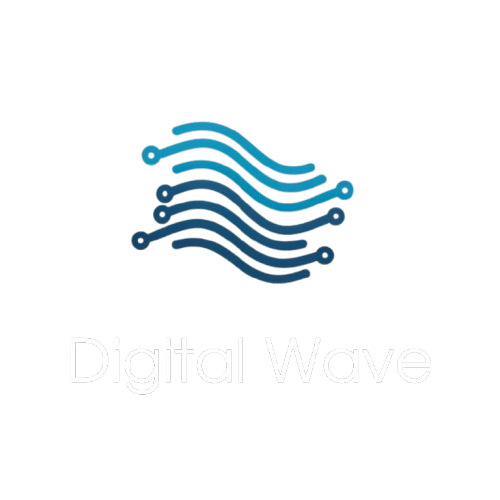
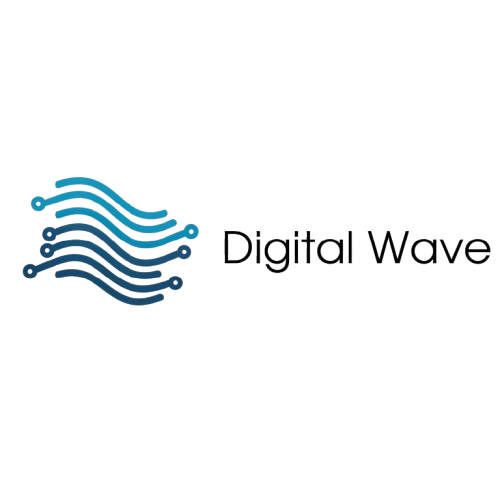
landing

Changed region(s): [[0.03, 0.24, 0.99, 0.63], [0.33, 0.69, 0.39, 0.72]]

diff --git a/index.html b/index.html
@@ -3,60 +3,122 @@
   <head>
     <meta charset="UTF-8" />
     <meta name="viewport" content="width=device-width, initial-scale=1.0" />
-    <title>Inicio - Dispensador de Agua</title>
+    <title>Bienvenida - Dispensador de Agua</title>
     <link rel="stylesheet" href="styles.css" />
   </head>
   <body>
-    <div id="navbar"></div>
-
-    <script>
-      fetch("navbar.html")
-        .then((response) => response.text())
-        .then((data) => {
-          document.getElementById("navbar").innerHTML = data;
-        });
-    </script>
-    <header class="header">
-      <img src="imgs/aqualife2.png" alt="logo-aquaLife" class="logo-aquaLife" />
-    </header>
-    <div class="container">
+    <div class="landing-container">
+      <!-- Logotipo de la aplicación -->
       <img
-        src="imgs/inicio.png"
-        alt="Imagen de fondo"
-        class="background-image" />
+        src="imgs/aquaLife.png"
+        alt="Logo de la Aplicación"
+        class="logo-app" />
+
+      <!-- Botón de inicio -->
+      <button class="inicio-button" onclick="location.href='inicio.html'">
+        Ir al Inicio
+      </button>
+
+      <!-- Texto 'by' y logotipo de los creadores -->
+      <div class="by-creators">
+        <p class="by-text">by</p>
+        <img
+          src="imgs/digitalWave.png"
+          alt="Creadores de la Aplicación"
+          class="creadores" />
+      </div>
     </div>
 
     <style>
+      /* Estilos para la página de bienvenida */
       body {
-        font-family: Arial, sans-serif;
         margin: 0;
         padding: 0;
-        background-color: #f5f5f5;
-      }
-
-      .header {
-        background-color: #023e8a;
-        padding: 20px 0;
-        text-align: center;
-        position: relative;
-        border-radius: 0px 0px 10px 10px;
-      }
-
-      .logo-aquaLife {
-        width: 150px;
-        max-width: 100%;
-      }
-
-      .container {
-        text-align: center;
+        font-family: Arial, sans-serif;
+        background-color: #e3f2fd; /* Fondo suave en azul claro */
+        display: flex;
+        align-items: center;
         justify-content: center;
-        align-content: center;
+        height: 100vh; /* Ajusta a la altura de la ventana */
       }
 
-      .background-image {
-        margin: 0;
-        width: 46vh;
-        height: 85vh;
+      .landing-container {
+        display: flex;
+        flex-direction: column;
+        align-items: center;
+        justify-content: center;
+        height: 80vh;
+        text-align: center;
+        background-color: white; /* Fondo blanco para el contenido */
+        padding: 20px;
+        border-radius: 15px;
+        box-shadow: 0 4px 10px rgba(0, 0, 0, 0.1); /* Sombra suave */
+      }
+
+      /* Estilos para el logotipo de la aplicación */
+      .logo-app {
+        width: 70%; /* Ajusta el tamaño del logo para hacerlo más grande */
+        max-width: 400px;
+        margin-bottom: 10px; /* Reduce el margen entre el logo y el botón */
+      }
+
+      /* Estilos para el botón de inicio */
+      .inicio-button {
+        padding: 10px 25px;
+        font-size: 18px;
+        color: #ffffff;
+        background-color: #023e8a;
+        border: none;
+        border-radius: 25px;
+        cursor: pointer;
+        box-shadow: 0 4px 8px rgba(0, 0, 0, 0.2);
+        transition: background-color 0.3s ease, transform 0.2s;
+        margin-top: 10px; /* Espacio pequeño para separarlo del logo */
+      }
+
+      .inicio-button:hover {
+        background-color: #0353a4;
+        transform: scale(1.05);
+      }
+
+      /* Contenedor para el texto 'by' y la imagen de creadores */
+      .by-creators {
+        display: flex;
+        flex-direction: column;
+        align-items: center;
+        margin-top: 20px;
+      }
+
+      /* Estilos para el texto 'by' */
+      .by-text {
+        font-size: 12px;
+        color: #666666;
+        margin-bottom: -5px; /* Espacio para acercar el texto a la imagen */
+      }
+
+      /* Estilos para la imagen de los creadores */
+      .creadores {
+        width: 70px;
+        max-width: 100%;
+        opacity: 0.7;
+      }
+
+      /* Ajustes de responsividad */
+      @media (max-width: 768px) {
+        .landing-container {
+          height: 90vh;
+          width: 90%;
+          padding: 15px;
+        }
+
+        .logo-app {
+          width: 80%; /* Ajusta el tamaño del logo en pantallas pequeñas */
+        }
+
+        .inicio-button {
+          font-size: 16px;
+          padding: 12px 24px;
+        }
       }
     </style>
   </body>

diff --git a/inicio.html b/inicio.html
@@ -1,0 +1,63 @@
+<!DOCTYPE html>
+<html lang="es">
+  <head>
+    <meta charset="UTF-8" />
+    <meta name="viewport" content="width=device-width, initial-scale=1.0" />
+    <title>Inicio - Dispensador de Agua</title>
+    <link rel="stylesheet" href="styles.css" />
+  </head>
+  <body>
+    <div id="navbar"></div>
+
+    <script>
+      fetch("navbar.html")
+        .then((response) => response.text())
+        .then((data) => {
+          document.getElementById("navbar").innerHTML = data;
+        });
+    </script>
+    <header class="header">
+      <img src="imgs/aqualife2.png" alt="logo-aquaLife" class="logo-aquaLife" />
+    </header>
+    <div class="container">
+      <img
+        src="imgs/inicio.png"
+        alt="Imagen de fondo"
+        class="background-image" />
+    </div>
+
+    <style>
+      body {
+        font-family: Arial, sans-serif;
+        margin: 0;
+        padding: 0;
+        background-color: #f5f5f5;
+      }
+
+      .header {
+        background-color: #023e8a;
+        padding: 20px 0;
+        text-align: center;
+        position: relative;
+        border-radius: 0px 0px 10px 10px;
+      }
+
+      .logo-aquaLife {
+        width: 150px;
+        max-width: 100%;
+      }
+
+      .container {
+        text-align: center;
+        justify-content: center;
+        align-content: center;
+      }
+
+      .background-image {
+        margin: 0;
+        width: 46vh;
+        height: 85vh;
+      }
+    </style>
+  </body>
+</html>

diff --git a/navbar.html b/navbar.html
@@ -1,7 +1,7 @@
 <nav class="navbar">
   <div class="navbar-container">
     <ul id="nav-links" class="nav-links">
-      <li><a href="index.html">Inicio</a></li>
+      <li><a href="inicio.html">Inicio</a></li>
       <li><a href="estadisticas.html">Estadísticas</a></li>
       <li><a href="alertas.html">Alertas</a></li>
       <li><a href="cuenta.html">Cuenta</a></li>
